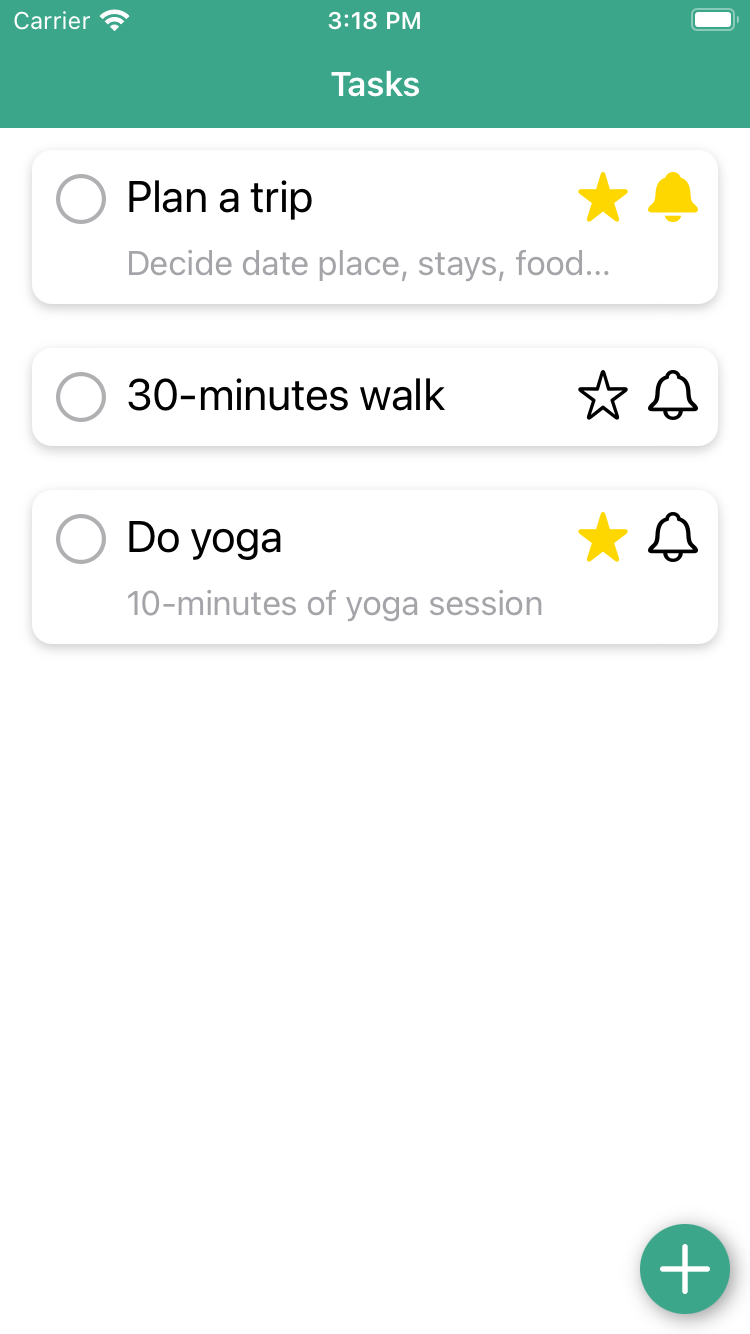
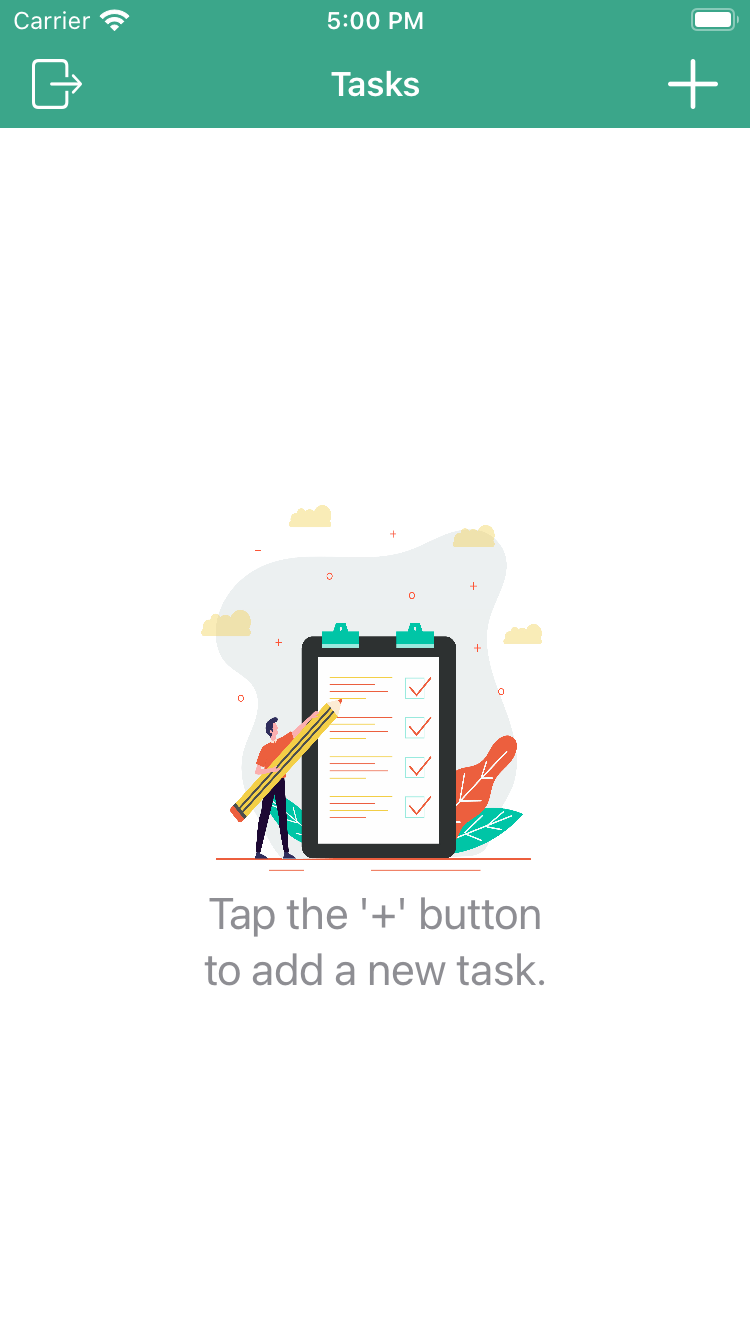
📝Update README

diff --git a/README.md b/README.md
@@ -6,22 +6,25 @@ Welcome to the **Tasks**, a delightful iOS application crafted with SwiftUI to e
 🚀 Features
 -----------
 
+- **Authentication** Log in or sign up using email/password or social sign-ins like Google and Facebook.
 - **Task Management:** Effortlessly add, edit, and delete tasks.
 - **Priority Setting:** Highlight your priorities by starring important tasks.
 - **Mark Completion:** Instantly mark tasks as completed when they are done.
 - **Notifications:** Set reminders for tasks with the notification feature.
+- **Task Categories:** Now you can categorize tasks by adding or selecting from your created categories.
 - **User-Friendly Interface:** Enjoy a clean, intuitive design for a joyous user experience.
 
 📸 Sneak Peek
 -----------
 
 <p float="left">
-<img src="https://raw.githubusercontent.com/chaitalilad27/TasksApp/main/Screenshots/Tasks_1.png" width="16%"">
-<img src="https://raw.githubusercontent.com/chaitalilad27/TasksApp/main/Screenshots/Tasks_2.png" width="16%"">
-<img src="https://raw.githubusercontent.com/chaitalilad27/TasksApp/main/Screenshots/Tasks_3.png" width="16%"">
-<img src="https://raw.githubusercontent.com/chaitalilad27/TasksApp/main/Screenshots/Tasks_4.png" width="16%"">
-<img src="https://raw.githubusercontent.com/chaitalilad27/TasksApp/main/Screenshots/Tasks_5.png" width="16%"">
-<img src="https://raw.githubusercontent.com/chaitalilad27/TasksApp/main/Screenshots/Tasks_6.png" width="16%"">
+<img src="https://raw.githubusercontent.com/chaitalilad27/TasksApp/main/Screenshots/Tasks_1.png" width="13%"">
+<img src="https://raw.githubusercontent.com/chaitalilad27/TasksApp/main/Screenshots/Tasks_2.png" width="13%"">
+<img src="https://raw.githubusercontent.com/chaitalilad27/TasksApp/main/Screenshots/Tasks_3.png" width="13%"">
+<img src="https://raw.githubusercontent.com/chaitalilad27/TasksApp/main/Screenshots/Tasks_4.png" width="13%"">
+<img src="https://raw.githubusercontent.com/chaitalilad27/TasksApp/main/Screenshots/Tasks_5.png" width="13%"">
+<img src="https://raw.githubusercontent.com/chaitalilad27/TasksApp/main/Screenshots/Tasks_6.png" width="13%"">
+<img src="https://raw.githubusercontent.com/chaitalilad27/TasksApp/main/Screenshots/Tasks_7.png" width="13%"">
 </p>
 
 💻 Getting Started
@@ -49,9 +52,9 @@ Ready to dive in? Follow these simple steps to set up and run the Tasks App on y
 
 -   Launch the app to view your task list.
 -   Tap the "+" button to add a new task.
--   Swipe left on a task to delete it.
--   Tap on a task to edit its details.
+-   Tap on a task to edit its details or to delete it.
 -   Tap on a task to mark it as completed when done.
+-   Add task category to organize tasks effectively.
 
 🤝 Contributing
 ---------------
